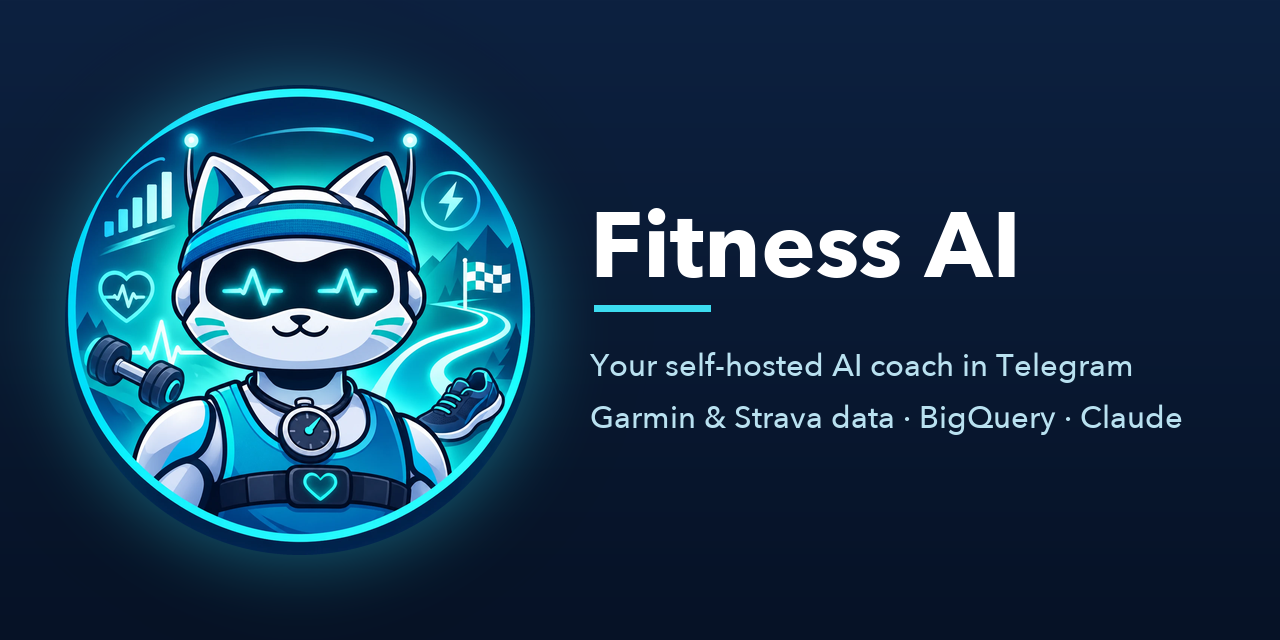
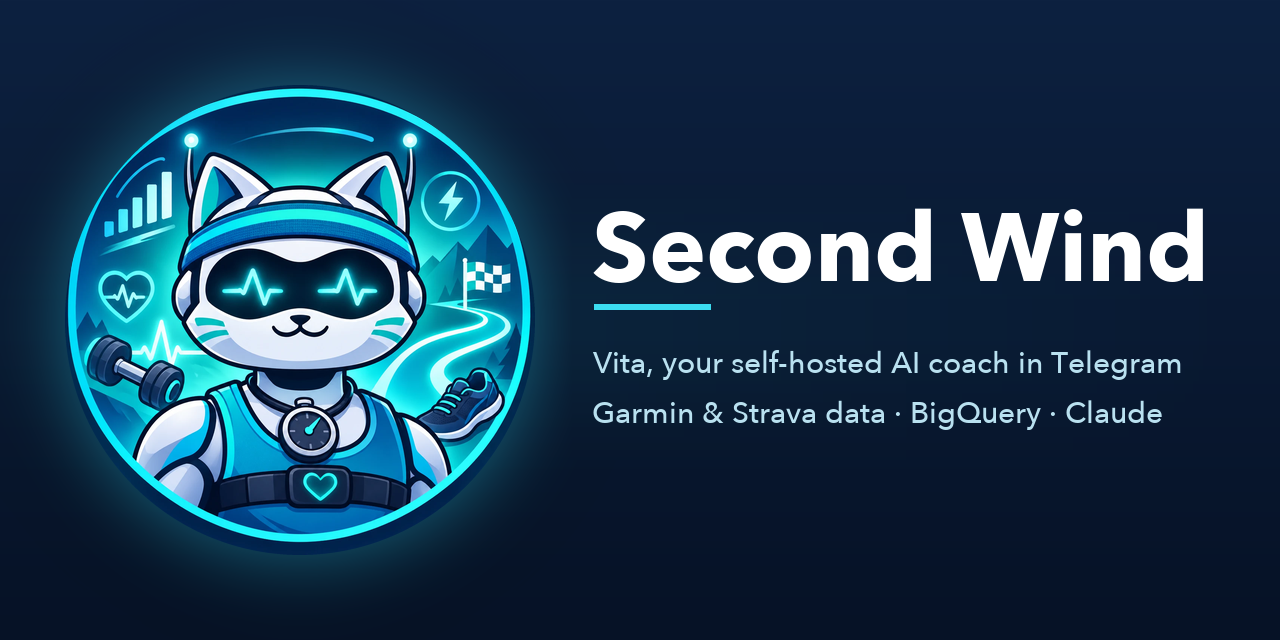
Name the project Second Wind and the bot persona Vita
- README title, intro and estimate wording; setup.py docstring
- GitHub social preview redrawn with the new name
- Menu header shows Vita; estimate label is now "our estimate, not Garmin's"
- All prompts start with the Vita persona (female, feminine forms in Russian)
- Infrastructure names (GCP resources, dataset, image repo) unchanged

diff --git a/bot/claude_client.py b/bot/claude_client.py
@@ -19,10 +19,16 @@ FORMAT_NOTE = """Formatting (the answer is shown in a Telegram chat):
 - Short paragraphs and "- " bullet lists; bold only key numbers or conclusions.
 - No tables, no code blocks, no horizontal rules."""
 
+# The bot's persona. The project is "Second Wind"; the bot introduces itself as Vita.
+PERSONA = ("Your name is Vita (Вита in Russian), the personal assistant of the Second Wind project. "
+           "You are female: in Russian always use feminine forms about yourself "
+           "(«я посмотрела», «я заметила», «я рада»). Do not introduce yourself unless asked.")
+
 GOAL_NOTE = ("The athlete has no specific race goal set: treat this as ongoing training "
              "(consistency, general fitness, staying healthy).")  # used when no athlete note is given
 
-COACH_PROMPT = """You are an experienced running and triathlon coach with 15 years of work with amateur athletes.
+COACH_PROMPT = """{persona}
+In this answer you act as an experienced running and triathlon coach with 15 years of work with amateur athletes.
 Analyze the data concretely: what is good, what is bad, what to change. No filler, no generic advice.
 {goal}
 
@@ -33,7 +39,8 @@ Data:
 
 Answer in {language}, up to 400 words."""
 
-HEALTH_PROMPT = """You are a sports physician reviewing an amateur athlete's physiological data.
+HEALTH_PROMPT = """{persona}
+In this answer you act as a sports physician reviewing an amateur athlete's physiological data.
 
 Pay special attention to:
 - HRV trend: a drop of more than 10% below baseline flags incomplete recovery
@@ -51,7 +58,8 @@ Data:
 
 Answer in {language}, up to 400 words."""
 
-NUTRITION_PROMPT = """You are a sports nutritionist. Give concrete recommendations with numbers:
+NUTRITION_PROMPT = """{persona}
+In this answer you act as a sports nutritionist. Give concrete recommendations with numbers:
 - Calories on training days and on recovery days
 - What to eat 2–3 hours before a workout and within 30 minutes after
 - Hydration (ml per hour for this type of training)
@@ -66,7 +74,8 @@ Training and load data:
 
 Answer in {language}, up to 400 words."""
 
-ASK_PROMPT = """You are the personal coach and sports physician of an amateur athlete. Answer their question using their data.
+ASK_PROMPT = """{persona}
+You are the personal coach and sports physician of an amateur athlete. Answer their question using their data.
 Rely only on the data below. If the data needed is missing or stale, say so plainly; do not make anything up.
 {goal}
 
@@ -114,7 +123,7 @@ def analyze(prompt_template: str, data_summary: str, task: str, lang: str,
         max_tokens=16000,
         output_config={"effort": effort_for(task)},
         messages=[{"role": "user", "content": prompt_template.format(
-            data=data_summary, language=language_name(lang), goal=athlete or GOAL_NOTE, format=FORMAT_NOTE, **fmt)}],
+            data=data_summary, language=language_name(lang), goal=athlete or GOAL_NOTE, format=FORMAT_NOTE, persona=PERSONA, **fmt)}],
     )
     client = _get_client()
     if supports_fallback(model):

diff --git a/bot/handlers.py b/bot/handlers.py
@@ -183,8 +183,8 @@ def _context(bq: BigQueryReader) -> str:
         "=== WORKOUTS: LAST WEEK ===\n" + ("\n\n".join(_fmt_activity(a, lang) for a in prev) or "none") + "\n\n"
         "=== HEALTH BY DAY (14 days: sleep, HRV, resting HR, stress, Body Battery) ===\n"
         + ("\n".join(_fmt_health(h, lang) for h in health) or "no data") + "\n\n"
-        "=== TRAINING LOAD (computed by fitness-ai from Garmin data) ===\n" + _fmt_load(load, lang) + "\n\n"
-        "=== fitness-ai ESTIMATES (NOT Garmin metrics; call them our estimate) ===\n"
+        "=== TRAINING LOAD (computed by Second Wind from Garmin data) ===\n" + _fmt_load(load, lang) + "\n\n"
+        "=== SECOND WIND ESTIMATES (NOT Garmin metrics; call them our estimate) ===\n"
         + _estimates(health, load, lang) + "\n\n"
         + ("=== DATA FRESHNESS ===\n" + "\n".join(warn) if warn else "")
     )

diff --git a/scripts/setup.py b/scripts/setup.py
@@ -1,5 +1,5 @@
 #!/usr/bin/env python3
-"""Interactive setup for Fitness AI. Standard library only; needs gcloud + terraform.
+"""Interactive setup for Second Wind. Standard library only; needs gcloud + terraform.
 
   python3 scripts/setup.py config    # choose project, region, data sources -> terraform/terraform.tfvars,
                                      # create the Terraform state bucket

diff --git a/bot/estimates.py b/bot/estimates.py
@@ -1,4 +1,4 @@
-"""fitness-ai's own estimates of readiness and training status.
+"""Second Wind's own estimates of readiness and training status.
 
 Garmin computes Training Readiness and Training Status with closed Firstbeat
 models and the Personal API does not return them. Garmin documents only the

diff --git a/README.md b/README.md
@@ -1,10 +1,10 @@
 <p align="center">
-  <img src="docs/avatar.png" alt="Fitness AI" width="200">
+  <img src="docs/avatar.png" alt="Vita, the Second Wind bot" width="200">
 </p>
 
-# Fitness AI
+# Second Wind
 
-A self-hosted Telegram bot that collects your training and health data from the
+*Второе дыхание.* A self-hosted Telegram bot, **Vita** (Вита), that collects your training and health data from the
 sources you choose (**Garmin Connect**, **Strava**, more can be added), stores it
 in **BigQuery**, and analyzes it with Claude as a coach, sports doctor and
 nutritionist.
@@ -19,7 +19,7 @@ Claude Sonnet 5.5, roughly $0.015.
 - Telegram bot (answers only your chat) in **Russian or English**:
   - just ask in any language — "how did my last workout go?", «как я спал вчера?» — the answer comes in the language of the question
   - `/menu` (or `/start`) — buttons for everything below; the same commands are in Telegram's **Menu** list
-  - `/today` — last workout, latest health day, training load, readiness and training status (fitness-ai estimates)
+  - `/today` — last workout, latest health day, training load, readiness and training status (our own estimates)
   - `/week` — current week summary
   - `/coach`, `/health`, `/nutrition` — AI analysis
   - `/status` — freshness of each data source
@@ -94,7 +94,7 @@ You pick sources at setup (`data_sources` in `terraform.tfvars`). **Order = prio
 
   Run `python3 scripts/garmin_probe.py` with your key to check your own account.
 
-### Training load and estimates (computed by fitness-ai)
+### Training load and estimates (computed by Second Wind)
 
 Garmin's readiness / status models are closed, but their inputs are documented and the
 heavy part — per-activity EPOC load and training effect — comes from Garmin itself.
@@ -104,7 +104,7 @@ heavy part — per-activity EPOC load and training effect — comes from Garmin 
   above high), 28-day load focus (low aerobic / high aerobic / anaerobic from
   `trainingEffectLabel`), VO2 max and its 28-day change.
 - HRV personal range (`hrv_baseline_low/high`) from Garmin's HRV baseline.
-- Bot shows **readiness** (0–100) and **training status** as *fitness-ai estimates, not Garmin
+- Bot shows **readiness** (0–100) and **training status** as *our own estimates, not Garmin
   values* — transparent rules in `bot/estimates.py` over the same inputs Garmin lists
   (readiness: sleep score, 3-night sleep, HRV vs baseline, load ratio, 3-day stress — without
   recovery time; status: VO2 max trend, load ratio, HRV status).
